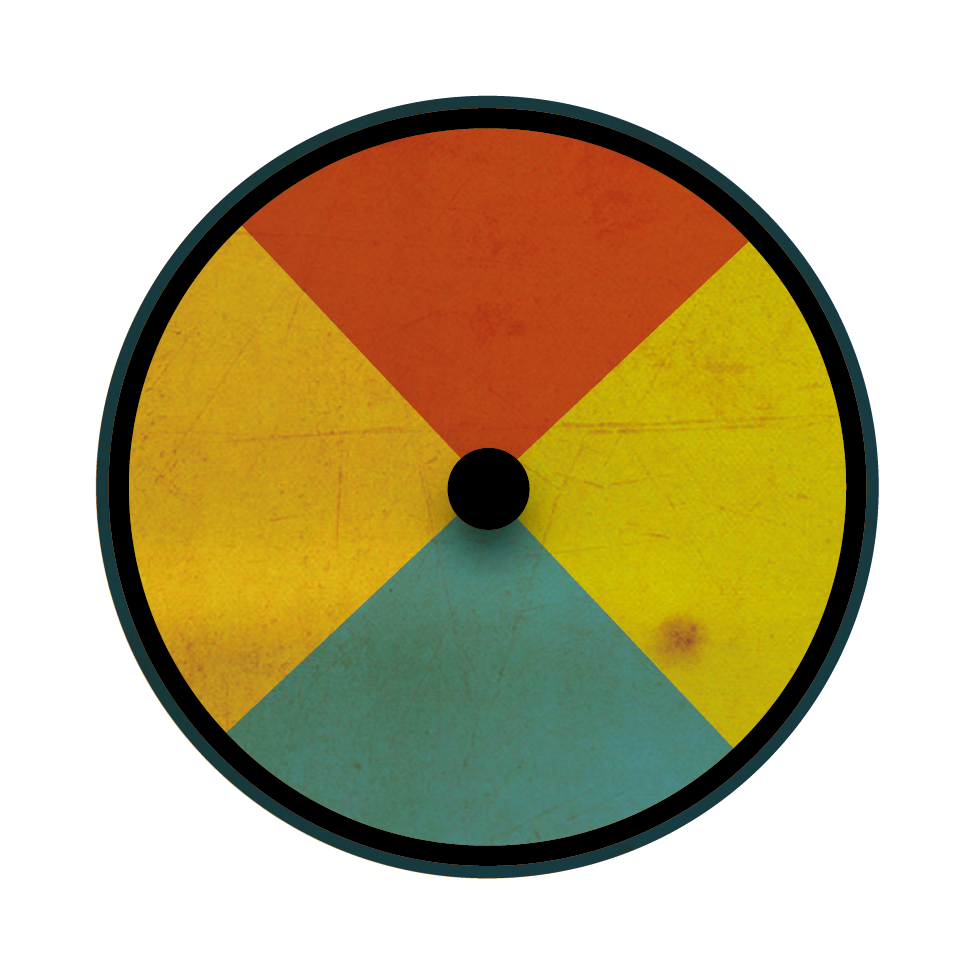
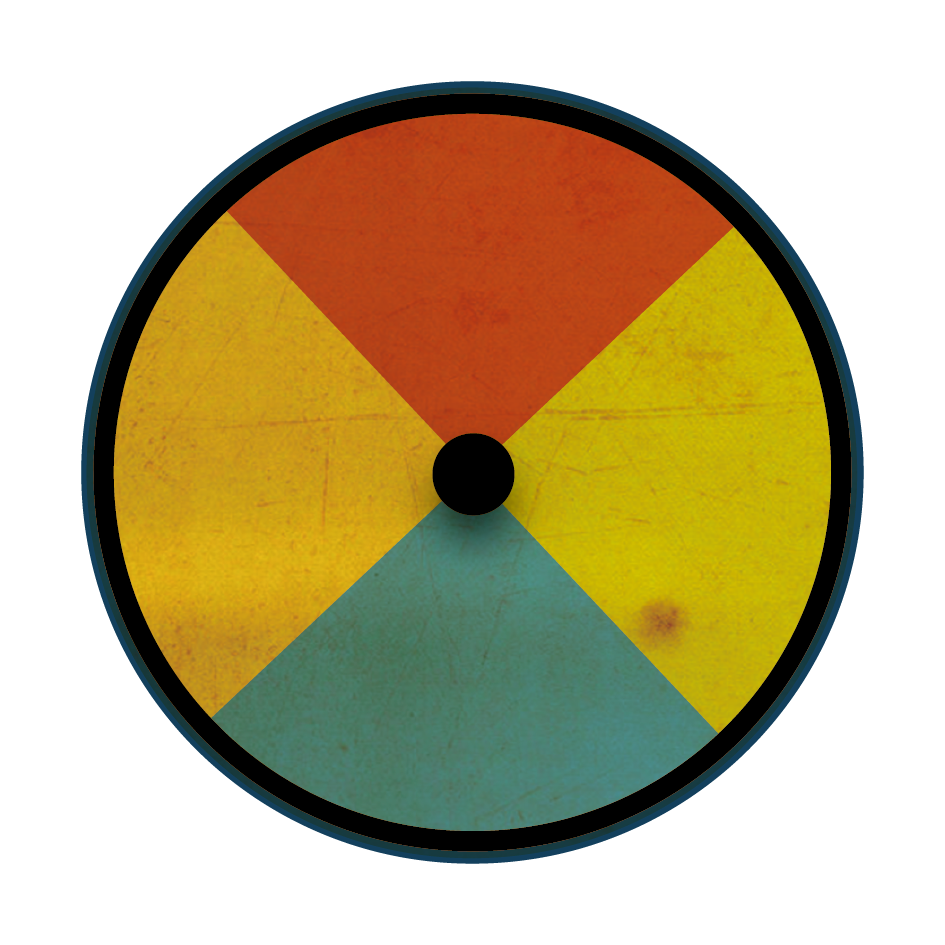
Update give_group

Changed region(s): [[0.0614, 0.0614, 0.9206, 0.9206], [0.4603, 0.4603, 0.491, 0.491]]

diff --git a/dist/styles/want_group.css b/dist/styles/want_group.css
@@ -1,10 +1,21 @@
 #want_group{width:100%;}
-#want_group .turntable{width:70%;display:block;position:absolute;left:50%;top:10%;margin-left:-35%;}
+#want_group .turntable{width:70%;display:block;position:absolute;left:50%;top:7px;margin-left:-35%;}
 #want_group .turntable img{border:none;width:100%}
-#want_group .turntable .runrun{position:absolute;left:0;top:0;width:100%;height:100%;-webkit-transform:rotate(0);-moz-transform:rotate(0);-o-transform:rotate(0);-ms-transform:rotate(0);transform:rotate(0);-webkit-transition:400ms cubic-bezier(0.6, 0.04, 0.98, 0.335) all;-moz-transition:400ms cubic-bezier(0.6, 0.04, 0.98, 0.335) all;-o-transition:400ms cubic-bezier(0.6, 0.04, 0.98, 0.335) all;-ms-transition:400ms cubic-bezier(0.6, 0.04, 0.98, 0.335) all;transition:400ms cubic-bezier(0.6, 0.04, 0.98, 0.335) all}
-#want_group .turntable.active-group-b .runrun{-webkit-transform:rotate(-90deg);-moz-transform:rotate(-90deg);-o-transform:rotate(-90deg);-ms-transform:rotate(-90deg);transform:rotate(-90deg)}
-#want_group .turntable.active-group-c .runrun{-webkit-transform:rotate(90deg);-moz-transform:rotate(90deg);-o-transform:rotate(90deg);-ms-transform:rotate(90deg);transform:rotate(90deg)}
-#want_group .turntable.active-group-d .runrun{-webkit-transform:rotate(180deg);-moz-transform:rotate(180deg);-o-transform:rotate(180deg);-ms-transform:rotate(180deg);transform:rotate(180deg)}
+#want_group .turntable .shadow,#want_group .turntable .heart{width:100%;height:100%;position:absolute;left:0;top:0;background-position:center center;-webkit-background-size:cover;-moz-background-size:cover;background-size:cover;background-repeat:no-repeat}
+#want_group .turntable .pointer{width:16%;position:absolute;left:50%;top:-7px;margin-left:-8%}
+#want_group .turntable .shadow{background-image:url("../images/want_group_turntable_shadow.png")}
+#want_group .turntable .heart{background-image:url("../images/want_group_turntable.png");-webkit-transform:rotate(0);-moz-transform:rotate(0);-o-transform:rotate(0);-ms-transform:rotate(0);transform:rotate(0);-webkit-transition:400ms cubic-bezier(0.6, 0.04, 0.98, 0.335) all;-moz-transition:400ms cubic-bezier(0.6, 0.04, 0.98, 0.335) all;-o-transition:400ms cubic-bezier(0.6, 0.04, 0.98, 0.335) all;-ms-transition:400ms cubic-bezier(0.6, 0.04, 0.98, 0.335) all;transition:400ms cubic-bezier(0.6, 0.04, 0.98, 0.335) all}
+#want_group .turntable.active-group-b .heart{-webkit-transform:rotate(-90deg);-moz-transform:rotate(-90deg);-o-transform:rotate(-90deg);-ms-transform:rotate(-90deg);transform:rotate(-90deg)}
+#want_group .turntable.active-group-c .heart{-webkit-transform:rotate(90deg);-moz-transform:rotate(90deg);-o-transform:rotate(90deg);-ms-transform:rotate(90deg);transform:rotate(90deg)}
+#want_group .turntable.active-group-d .heart{-webkit-transform:rotate(180deg);-moz-transform:rotate(180deg);-o-transform:rotate(180deg);-ms-transform:rotate(180deg);transform:rotate(180deg)}
+#want_group .turntable .text{position:absolute;left:50%;top:50%;width:40%;height:40%;margin-left:-20%;margin-top:-20%;background-position:center center;-webkit-background-size:cover;-moz-background-size:cover;background-size:cover;background-repeat:no-repeat;-webkit-transition:400ms cubic-bezier(0.6, 0.04, 0.98, 0.335) all;-moz-transition:400ms cubic-bezier(0.6, 0.04, 0.98, 0.335) all;-o-transition:400ms cubic-bezier(0.6, 0.04, 0.98, 0.335) all;-ms-transition:400ms cubic-bezier(0.6, 0.04, 0.98, 0.335) all;transition:400ms cubic-bezier(0.6, 0.04, 0.98, 0.335) all;-webkit-transform:rotate(-45deg);-moz-transform:rotate(-45deg);-o-transform:rotate(-45deg);-ms-transform:rotate(-45deg);transform:rotate(-45deg);}
+#want_group .turntable .text.text-a{background-image:url("../images/want_group_text_a.png")}
+#want_group .turntable .text.text-b{background-image:url("../images/want_group_text_b.png")}
+#want_group .turntable .text.text-c{background-image:url("../images/want_group_text_c.png")}
+#want_group .turntable .text.text-d{background-image:url("../images/want_group_text_d.png")}
+#want_group .turntable.active-group-b .text{-webkit-transform:rotate(45deg);-moz-transform:rotate(45deg);-o-transform:rotate(45deg);-ms-transform:rotate(45deg);transform:rotate(45deg)}
+#want_group .turntable.active-group-c .text{-webkit-transform:rotate(-135deg);-moz-transform:rotate(-135deg);-o-transform:rotate(-135deg);-ms-transform:rotate(-135deg);transform:rotate(-135deg)}
+#want_group .turntable.active-group-d .text{-webkit-transform:rotate(-225deg);-moz-transform:rotate(-225deg);-o-transform:rotate(-225deg);-ms-transform:rotate(-225deg);transform:rotate(-225deg)}
 #want_group .turntable .group{width:50%;height:50%;position:absolute;left:0;top:0;-webkit-transform:rotate(45deg);-moz-transform:rotate(45deg);-o-transform:rotate(45deg);-ms-transform:rotate(45deg);transform:rotate(45deg);}
 #want_group .turntable .group.group-a{left:25%}
 #want_group .turntable .group.group-b{top:25%;left:50%}

diff --git a/dist/views/want_group.html b/dist/views/want_group.html
@@ -2,13 +2,23 @@
 <html>
   <body>
     <div id="want_group" class="content"><img src="./images/want_group_bg.png" class="bg"/>
-      <div ng-class="'active-'+groupActive" class="turntable"><img src="images/want_group_turntable_shadow.png"/>
-        <div class="runrun"><img src="images/want_group_turntable.png"/>
-          <div ng-click="selectGroup('group-a')" class="group group-a"></div>
-          <div ng-click="selectGroup('group-b')" class="group group-b"></div>
-          <div ng-click="selectGroup('group-c')" class="group group-c"></div>
-          <div ng-click="selectGroup('group-d')" class="group group-d"></div>
+      <div ng-class="'active-'+groupActive" class="turntable"><img src="images/transparent.png"/>
+        <div class="shadow"></div>
+        <div class="heart">
+          <div ng-click="selectGroup('group-a')" class="group group-a">
+            <div class="text text-a"></div>
+          </div>
+          <div ng-click="selectGroup('group-b')" class="group group-b">
+            <div class="text text-b"></div>
+          </div>
+          <div ng-click="selectGroup('group-c')" class="group group-c">
+            <div class="text text-c"></div>
+          </div>
+          <div ng-click="selectGroup('group-d')" class="group group-d">
+            <div class="text text-d"></div>
+          </div>
         </div>
+        <div class="pointer"><img src="images/want_group_pointer.png"/></div>
       </div>
     </div>
   </body>

diff --git a/dist/styles/head.css b/dist/styles/head.css
@@ -1,2 +1,2 @@
-#head{position:fixed;left:0;top:0;z-index:10;height:25mm;width:100%;background-image:url("../images/head_bg.png");-webkit-background-size:contain;-moz-background-size:contain;background-size:contain;}
+#head{position:fixed;left:0;top:0;z-index:10;height:25mm;width:100%;background-image:url("../images/head_bg.png");-webkit-background-size:contain;-moz-background-size:contain;background-size:contain;-webkit-box-shadow:0 8px 8px rgba(0,0,0,0.7);box-shadow:0 8px 8px rgba(0,0,0,0.7);}
 #head a{display:block}
